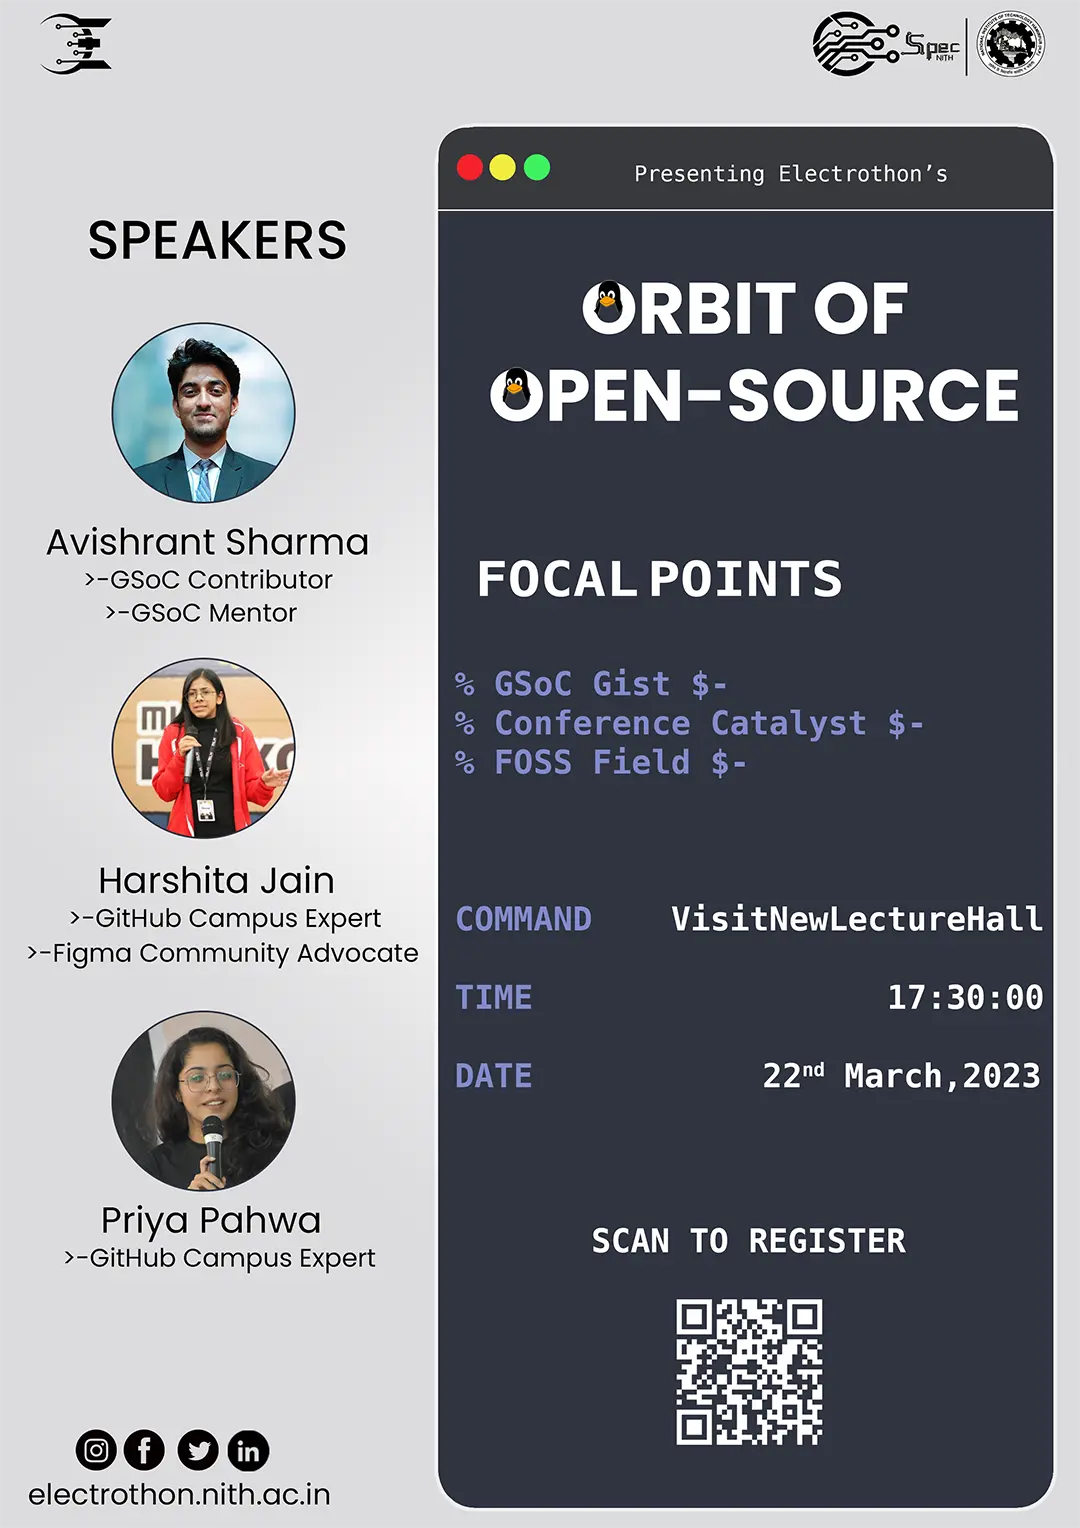
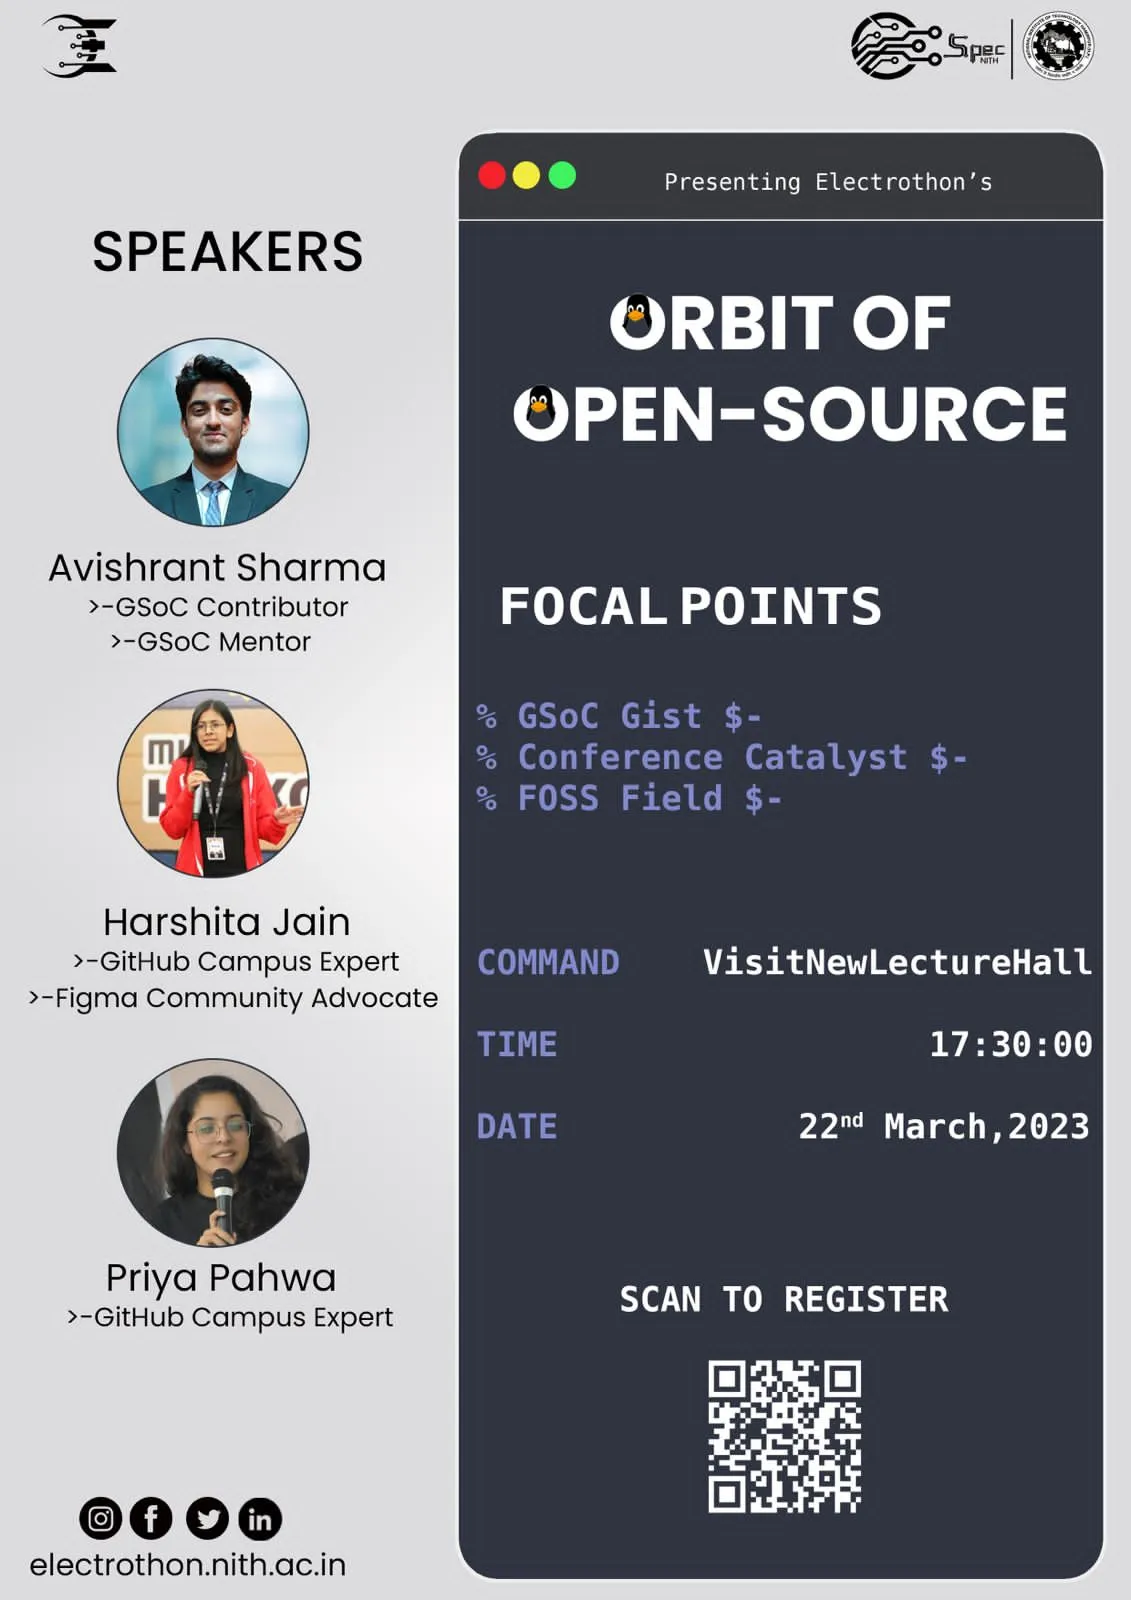
Orbit of Open-Source Event Image changed

diff --git a/src/components/Events/Data.js b/src/components/Events/Data.js
@@ -3,7 +3,7 @@ export const PreviousEvents = [];
 export const LiveEvents = [
   {
     name: "Orbit of Open Source",
-    img: "Events/orbit of open source.png",
+    img: "Events/orbit of open source.jpeg",
     desc: "Team SPEC has returned to spread the word about the power of open source software throughout the cosmos. Just as stars in a constellation work together to create something beautiful, the open source community collaborates to bring innovation to the far reaches of the galaxy.🪐🪐So prepare for liftoff, because Team SPEC is taking you on a journey through the stars to explore the world of open source at BoardRoom for Hackers 2.0: Orbit of Open-Source. Let's boldly go where no hacker has gone before!🪩🪩",
     webp: "Events/webp/orbit of open source.webp",
     link: "https://spec.nith.ac.in/OrbitofOpenSource/index.html",
